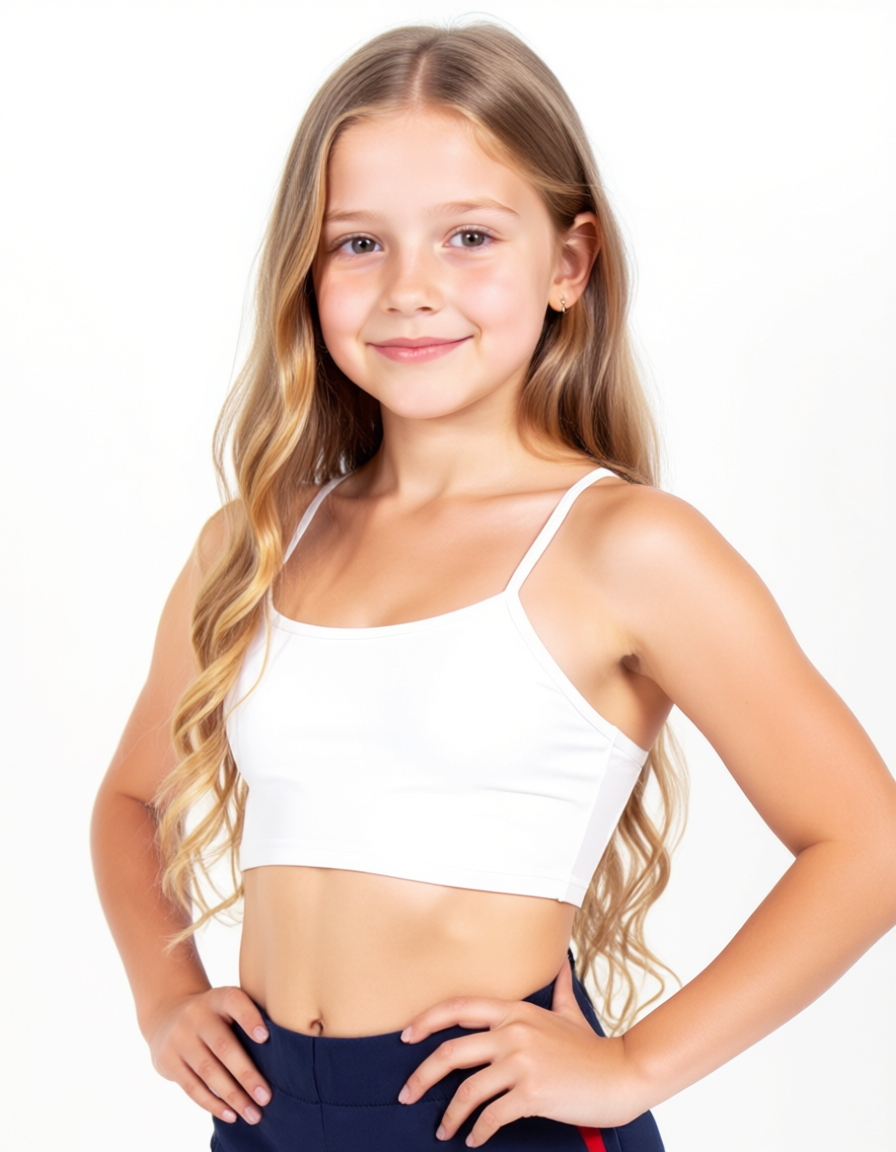
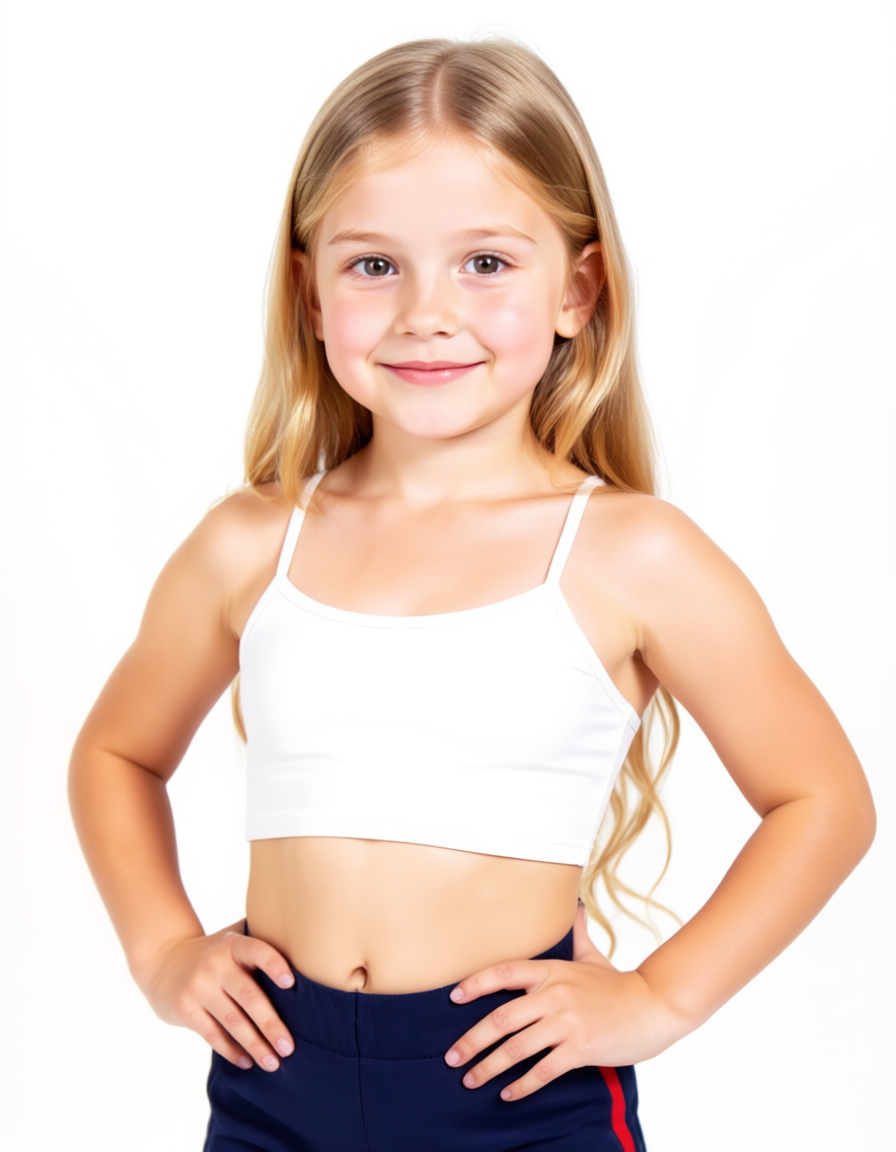
se agrega img

diff --git a/index.html b/index.html
@@ -563,17 +563,17 @@ src="https://www.facebook.com/tr?id=1328987255274375&ev=PageView&noscript=1"
    </div>  
 
    <div class="product" data-cat="Escolar">
-    <img src="img/Top_1005.png" alt="Top 1005">
+    <img src="img/1005.png" alt="Top 1005">
     <h3>Top 1005</h3>
     <p>Mayorista desde $2'500.000</p>
-    <a href="producto.html?id=1005" class="btn">Ver producto</a>
+    <a href="producto.html?id=64" class="btn">Ver producto</a>
    </div>
 
    <div class="product" data-cat="Escolar">
-    <img src="img/camiseta_1006.png" alt="Camiseta 1006">
-    <h3>Camiseta 1006</h3>
+    <img src="img/1006.png" alt="Top 1006">
+    <h3>Top 1006</h3>
     <p>Mayorista desde $2'500.000</p>
-    <a href="producto.html?id=1006" class="btn">Ver producto</a>
+    <a href="producto.html?id=65" class="btn">Ver producto</a>
    </div>  
    
       <div class="product" data-cat="Escolar">
